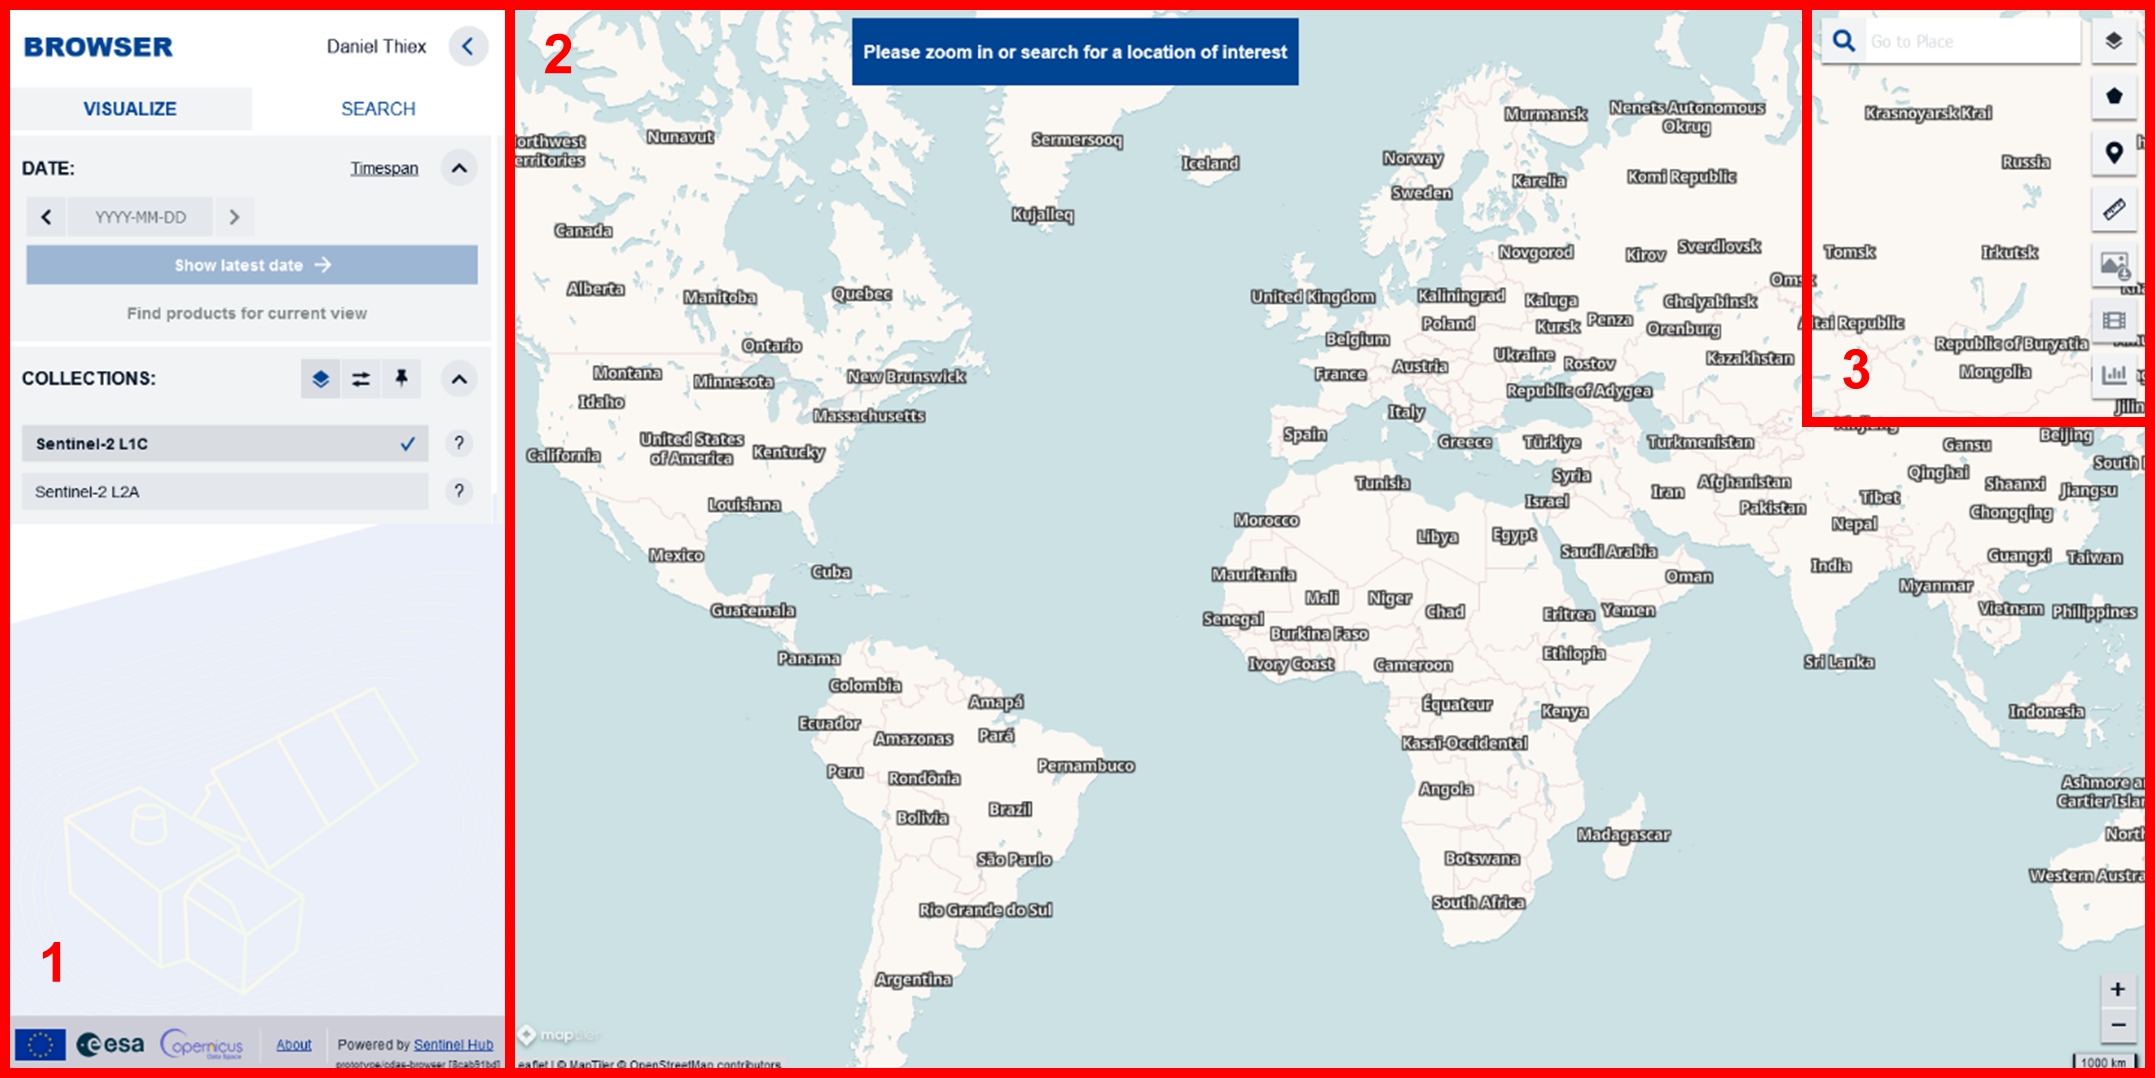
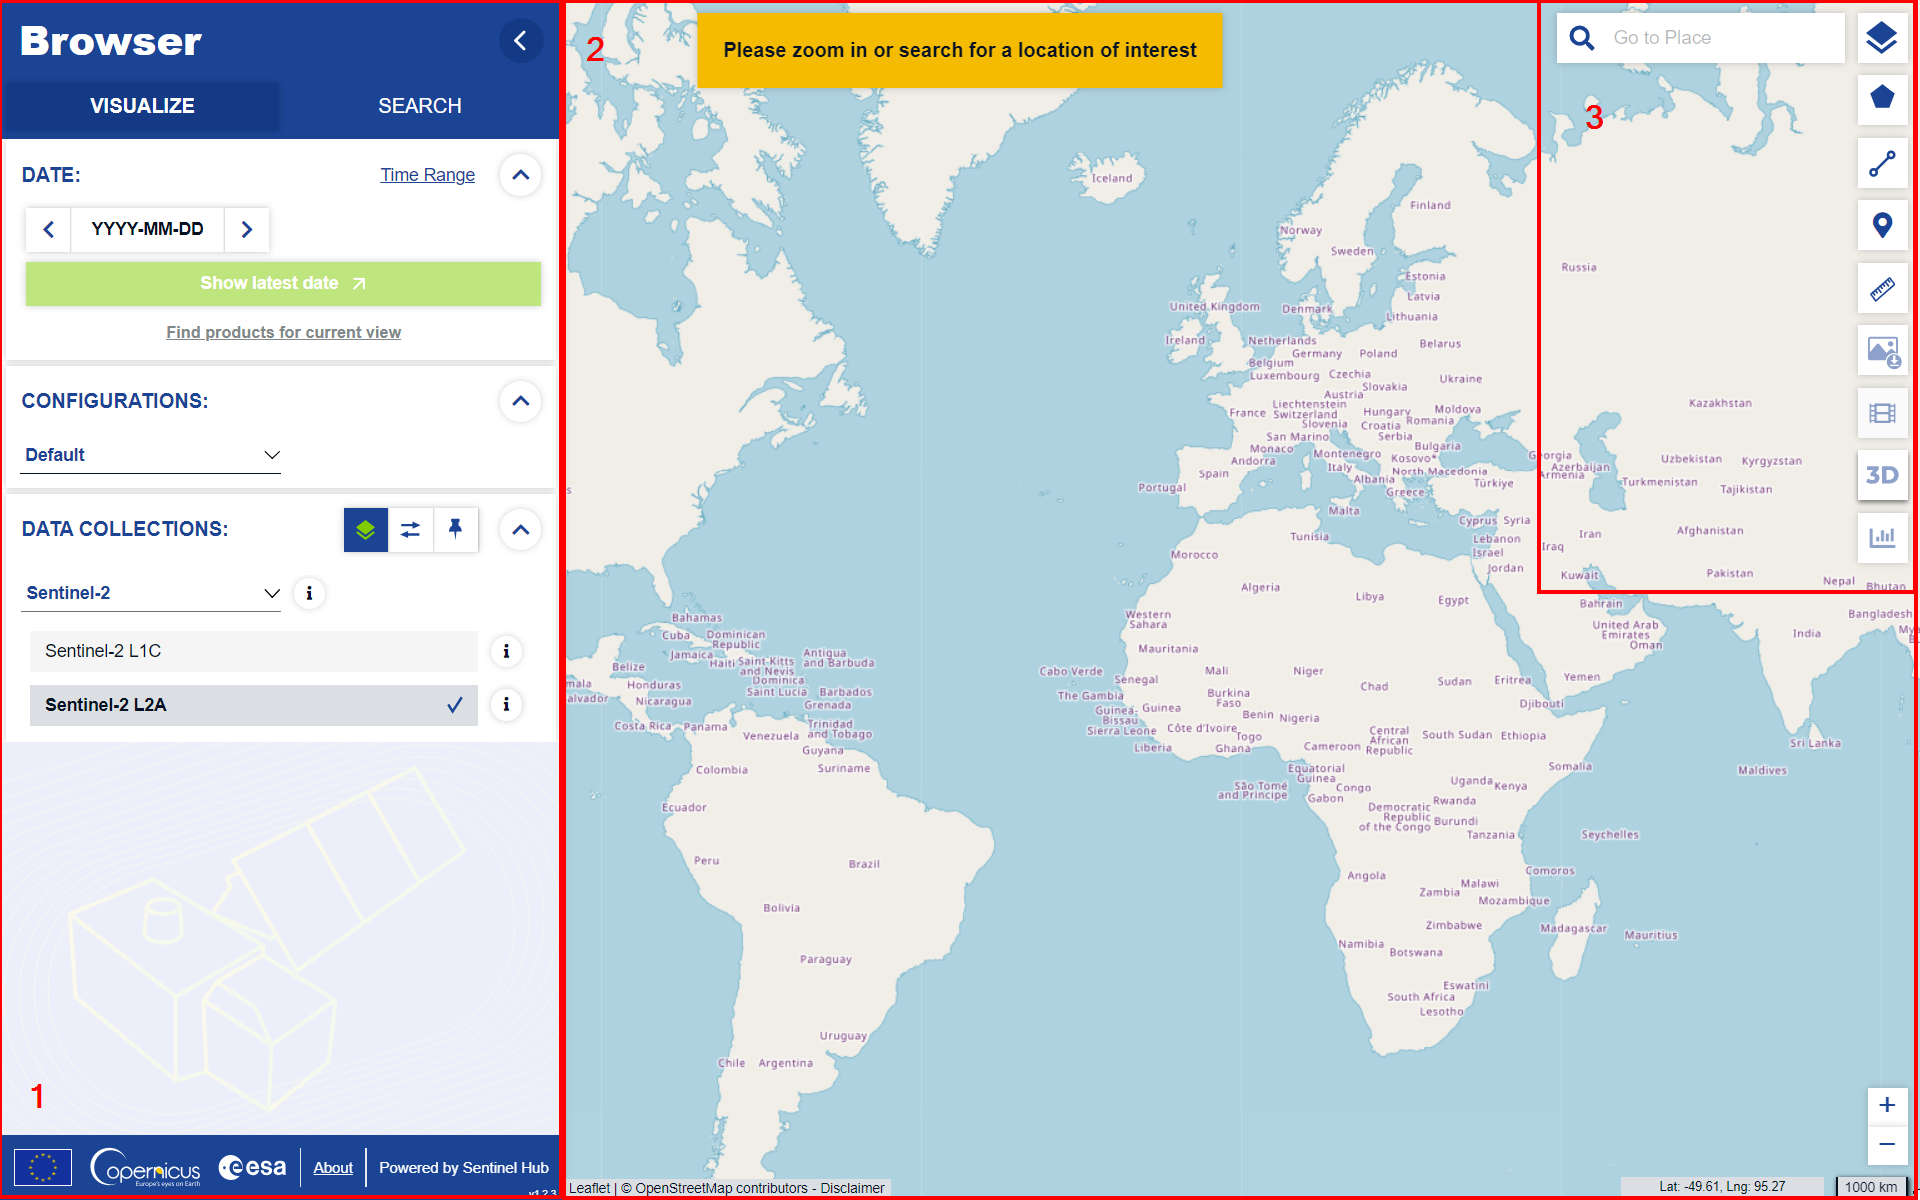
Update User guide.

diff --git a/Applications/Browser.md b/Applications/Browser.md
@@ -48,6 +48,17 @@ Fig 3: *Custom* Layers option with *Composite Index and Custom* script highlight
 
 Here you can create a custom *R/G/B* composite or _Index_ (band ratio, normalized difference index) by dragging and dropping the Sentinel-2 bands into the appropriate circles or use the _Custom script_ functionality to insert a piece of JavaScript code.
 
+
+#### Changing Configurations
+
+You can also change the configuration to create your own layers and visualise. A configuration instance acts as a separate WMS/WMTS/WFS/WCS service and each can be configured to provide a certain set of layers with different settings. It is therefore possible to create multiple configuration instances each with a different set of layers fulfilling various needs. Configuration instances may contain an arbitrary number of layers, which are configurable using the settings defined above, such as MAXCC, TIME, the max area limitation, etc. Visualization using a predefined data product or a custom script is configured for each layer. The configuration instance itself also has some global settings for default values on all layers, like image quality. 
+
+You can create your own confuguration by accessing your Dashboard from the dropdown Menu next to the Username. In the panel on the left, you will find "Configuration Utility" where you can create, modify and delete your instances. Once you have created a configuration, you can open it in the Copernicus Browser. Alternatively, you can change the configurations directly on the browser by selecting your configuration from the dropdown menu as shown in the figure.
+
+<img src="_images/Configuration_dropdown.png" width="450">
+
+Fig 4: Changing the Configuration in Copernicus Browser
+
 #### Changing the Data Collection
 
 You can switch visualizing between different data collections by clicking on the arrow next to the Data Collections section in the Visualization tab. Once you click on the arrow as seen in Fig. 4, you will be able to see a drop-down menu with a list of the satellite data that is available. Let us try to visualize Sentinel-3 data of the same location and date as that of the Sentinel-2 data in Visualizing data section.
@@ -60,7 +71,7 @@ At the moment, the Data Collections available for visualization are Sentinel-2 (
 
 <img src="_images/DataCollection.png" width="450">
 
-Fig 4: Changing *Data Collection* from *Visualization* tab directly
+Fig 5: Changing *Data Collection* from *Visualization* tab directly
 
 #### Comparing Visualizations
 
@@ -68,7 +79,7 @@ To compare two (or more) visualizations you must add them to the compare panel. 
 
 <img src="_images/AddIcon.png" width="350">
 
-Fig 5: *Add to compare* and compare icon
+Fig 6: *Add to compare* and compare icon
 
 #### Saving Pins
 
@@ -76,7 +87,7 @@ To save a visualization for future viewing, you can save it as a pin by clicking
 
 <img src="_images/AddPins.png" width="350">
 
-Fig 6: *Add to pins* and Pins icon
+Fig 7: *Add to pins* and Pins icon
 
 ### Product Search for Current Visualization
 
@@ -85,7 +96,7 @@ When you are visualizing data (chapter Visualizing data), you can easily find th
 
 <img src="_images/FindProduct.png" width="350">
 
-Fig 7: *Find products for current view* button position in the sidebar.
+Fig 8: *Find products for current view* button position in the sidebar.
 
 ### 3D Visualization
 
@@ -101,7 +112,7 @@ Let us try visualizing Mont Blanc, the highest peak in the Alps.
 7. You can Reset values at any point to return to the default settings. 
 
 ![3D visualization](_images/3DViz.png)
-Fig 8: 3D visualization in the Browser with pop-up Settings windows on the right
+Fig 9: 3D visualization in the Browser with pop-up Settings windows on the right
 
 ## Product Search
 
@@ -111,7 +122,7 @@ The *SEARCH* tab is located in the sidebar next to the *VISUALIZE* tab (see Fig.
 
 <img src="_images/SearchTab.png" width="350">
 
-Fig 9: *SEARCH* tab with different *Data Sources, Time range and Search* button
+Fig 10: *SEARCH* tab with different *Data Sources, Time range and Search* button
 
 
 ### How to find a Product
@@ -124,7 +135,7 @@ To find products you can either use the keyword search (text input) or select on
    4. Press the _Search_ button
 
 ![Search tab](_images/SearchResult.png)
-Fig 10: *SEARCH* tab with L2A collection selected and map centred on Rome (Italy)
+Fig 11: *SEARCH* tab with L2A collection selected and map centred on Rome (Italy)
 
 You will now see the first 50 search results for your search settings (Sentinel L2A data over Italy for a time range of 2 weeks) in the sidebar and on the map. To load the next 50 results, click on the _Load more_ button at the end of the list in the sidebar. You can view the metadata of a product in the sidebar or by selecting a product on the map. In both cases you can:
 
@@ -141,14 +152,14 @@ Here, you can choose various parameters depending on the chosen Data Source. For
 
 <img src="_images/Filters.png" width="450">
 
-Fig 11: Data filters and parameters
+Fig 12: Data filters and parameters
 
 #### Visualize the search result
 
 Once you have found a product, you can visualize the results in two ways: either by directly selecting the viszualize button ( ![visualize](_images/icons/VisualizeButton.png) ) in the sidebar or by selecting the visualize button in the results panel on the map. You can open the results panel by clicking on one of the displayed tile footprints on the map.
 
 ![Search tab](_images/VisualizeTile.png)
-Fig 12: Product metadata and visualize button
+Fig 13: Product metadata and visualize button
 
 ### How to download a Product
 
@@ -158,7 +169,25 @@ You can continue to use the app as normal while a product is being downloaded.
 
 <img src="_images/ProductDownload.png" width="450">
 
-Fig 13: Product download (in progress) with Download product and cancel button highlighted
+Fig 14: Product download (in progress) with Download product and cancel button highlighted
+
+#### Download single files
+
+A "product" refers to a directory containing a collection of information such as metadata, product information, the satellite image and quality data, auxiliary data and more. If downloading all of this data is not of your interest, you can opt to download single files within this directory but clicking on the single file download icon (![SFD](_images/icons/SingleFileDownload.png)). Depending on the product you are trying to download, you will get a list of files within the directory and the  ![download](_images/icons/DownloadIcon.png) icon next to them to download each file individually.
+
+### Add Product to Workspace
+
+To avoid downloading all the products, you can add the product to your workspace and give as input to your workflow on the Copernicus Dataspace Ecosystem directly. The main objective of the workspace is to:
+
+- Further process single products (with various options to select the algorithm/processing required for your application).
+
+- Keep track of the processed products (status, finished/queued products)
+
+To do this, click on the Add to Workspace icon (![workspace](_images/icons/AddToWorkspace.png)) appearing in your search result.  The workspace can be accessed bu clicking on the dropdown menu next to your user name and clicking on Workspace. 
+
+<img src="_images/User_DropDown.png" width="450">
+
+Fig 15: User dropdown menu to access Workspace.
 
 ## Tools
 
@@ -169,6 +198,8 @@ The Browser has several tools to help you better understand the data on the map 
 Use the **Area of Interest (AOI)** tool to draw a rectangular or polygonal area of interest by clicking on the ![polygon](_images/icons/PolygonIcon.png) icon in the upper right corner of the browser. You can also upload a KML/KMZ, GPX, WKT (in EPSG:4326) or GEOJSON/JSON file to create an AOI.
 
 Use the ![location](_images/icons/Location.png) icon to mark a location and re-centre to the **Point of Interest(POI)**
+
+Once you have selected the Area of interest, depending on the type of data you are looking at, you can view the spectral signature of the region with **Spectral Explorer**(![spectral](_images/icons/Spectral_Explorer.png)) or, in case of indices, look at the change in value over time with **Statistical Info** (![timeseries](_images/icons/HistIcon.png)).
 
 ### Measure
 
@@ -209,7 +240,7 @@ Alternatively, you can select only certain months in a year using the filter by 
 6. Click on the play button to check the result and download the animation as a GIF-file using the Download button for further use online/offline.
 
 ![Timelapse](_images/Timelapse.png)
-Fig 14: Browser timelapse tool with settings highlighted
+Fig 16: Browser timelapse tool with settings highlighted
 
 
 #### Histogram
@@ -218,4 +249,4 @@ With the **Histogram** tool you can display statistical data (the distribution o
 
 <img src="_images/Hist.png" width="550">
 
-Fig. 15: Example of a distribution plot of NDVI values
+Fig. 17: Example of a distribution plot of NDVI values
